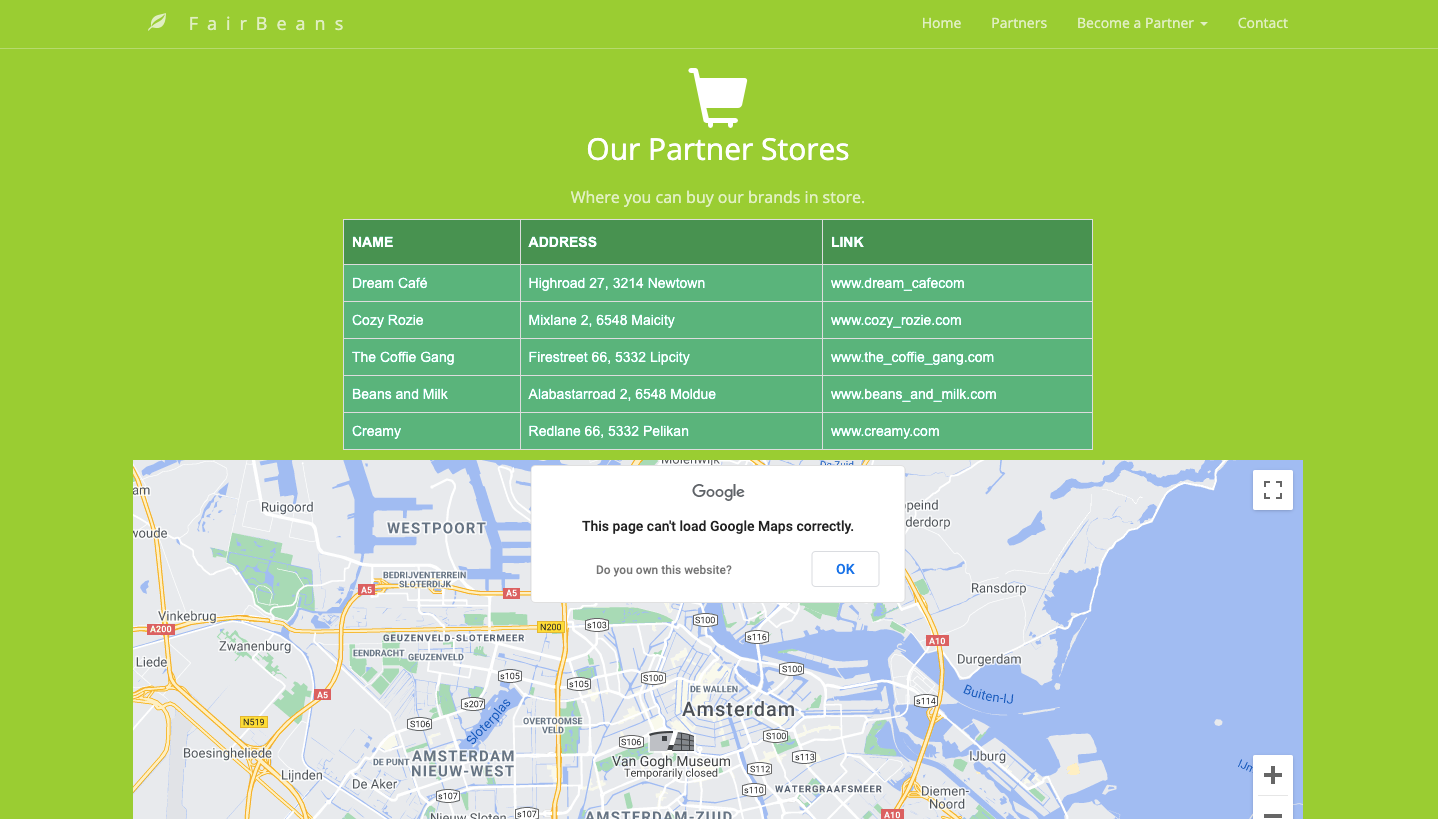
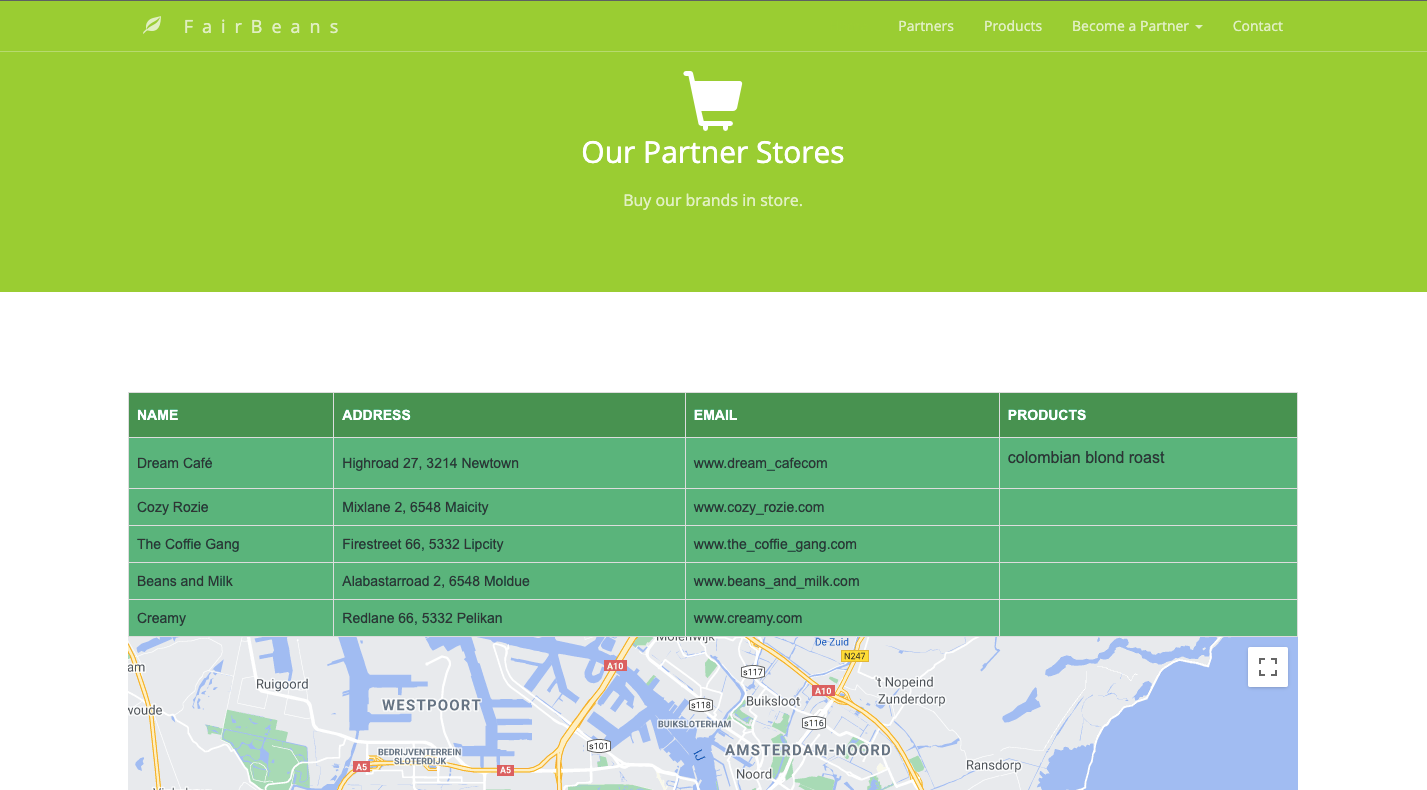
change attribute-name 'link' to 'email' and update partners-demo picture

diff --git a/src/main/resources/templates/partners.html b/src/main/resources/templates/partners.html
@@ -27,34 +27,28 @@ Although you can use them, for a more unique website, replace these images with 
     <section class="content">
         <div class="container">
             <div class="row">
-                <table id="partners">
-                    <tr>
-                        <th>NAME</th>
-                        <th>ADDRESS</th>
-                        <th>LINK</th>
-                        <th>PRODUCTS</th>
-                    </tr>
-                    <tr th:each="partner : ${partners}">
-                        <td th:text="${partner.name}">PartnerName</td>
-                        <td th:text="${partner.street + ' ' + partner.houseNumber + ', ' + partner.zipCode + ' ' + partner.city}">PartnerAddress</td>
-                        <td th:text="${partner.link}">PartnerEmail</td>
-                        <td>
-                            <p th:each="product : ${partner.products}">
-                                <span th:text="${product.name}">ProductName</span>
-                            </p>
-                        </td>
-                    </tr>
-                </table>
-            </div>
-        </div>
-    </section>
-
-    <!-- Content 2 -->
-    <section class="content">
-        <div class="container">
-            <div class="row">
+                <div>
+                    <table id="partners">
+                        <tr>
+                            <th>NAME</th>
+                            <th>ADDRESS</th>
+                            <th>EMAIL</th>
+                            <th>PRODUCTS</th>
+                        </tr>
+                        <tr th:each="partner : ${partners}">
+                            <td th:text="${partner.name}">PartnerName</td>
+                            <td th:text="${partner.street + ' ' + partner.houseNumber + ', ' + partner.zipCode + ' ' + partner.city}">PartnerAddress</td>
+                            <td th:text="${partner.email}">PartnerEmail</td>
+                            <td>
+                                <p th:each="product : ${partner.products}">
+                                    <span th:text="${product.name}">ProductName</span>
+                                </p>
+                            </td>
+                        </tr>
+                    </table>
+                </div>
                 <div id="map"></div>
-                    <script>
+                <script>
                         function initMap() {
                             new google.maps.Map(document.getElementById('map'), {
                                 center: {lat: 52.378, lng: 4.897},
@@ -63,8 +57,17 @@ Although you can use them, for a more unique website, replace these images with 
                             });
                         }
                     </script>
-                    <script src="https://maps.googleapis.com/maps/api/js?key=AIzaSyCxQDbU3tw_bIJr6Yj-mMp7AXoBdrLx_8A&callback=initMap" defer></script>
-                </div>
+                <script src="https://maps.googleapis.com/maps/api/js?key=AIzaSyCxQDbU3tw_bIJr6Yj-mMp7AXoBdrLx_8A&callback=initMap" defer></script>
+            </div>
+            </div>
+        </div>
+    </section>
+
+    <!-- Content 2 -->
+    <section class="content">
+        <div class="container">
+            <div class="row">
+
             </div>
         </div>
     </section>

diff --git a/src/main/java/com/webapp/fairBeans/domain/Partner.java b/src/main/java/com/webapp/fairBeans/domain/Partner.java
@@ -16,7 +16,7 @@ public class Partner {
     private String houseNumber;
     private String zipCode;
     private String city;
-    private String link;
+    private String email;
 
     @ManyToMany(mappedBy = "partners")
     private Set<Product> products = new HashSet<>();
@@ -24,13 +24,13 @@ public class Partner {
     public Partner() {
     }
 
-    public Partner(String name, String street, String houseNumber, String zipCode, String city, String link) {
+    public Partner(String name, String street, String houseNumber, String zipCode, String city, String email) {
         this.name = name;
         this.street = street;
         this.houseNumber = houseNumber;
         this.zipCode = zipCode;
         this.city = city;
-        this.link = link;
+        this.email = email;
     }
 
     public Long getId() {
@@ -81,12 +81,12 @@ public class Partner {
         this.city = city;
     }
 
-    public String getLink() {
-        return link;
+    public String getEmail() {
+        return email;
     }
 
-    public void setLink(String link) {
-        this.link = link;
+    public void setEmail(String email) {
+        this.email = email;
     }
 
     public Set<Product> getProducts() {
@@ -106,7 +106,7 @@ public class Partner {
                 ", houseNumber='" + houseNumber + '\'' +
                 ", zipCode='" + zipCode + '\'' +
                 ", city='" + city + '\'' +
-                ", link='" + link + '\'' +
+                ", email='" + email + '\'' +
                 '}';
     }
 
